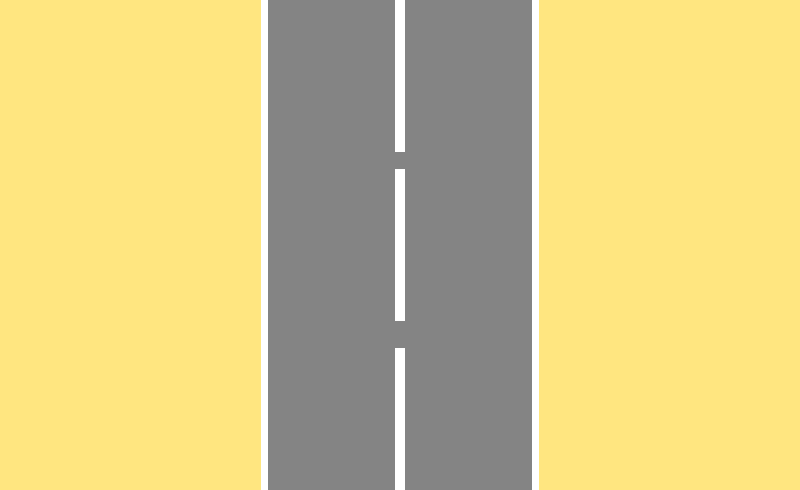
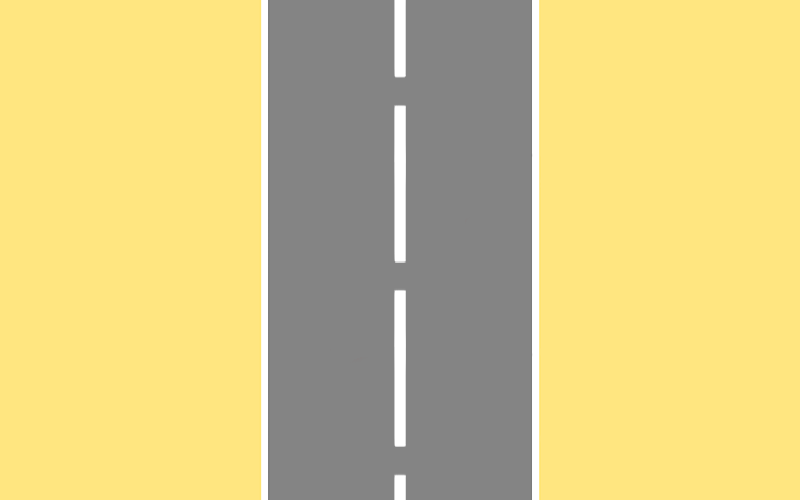
Need to do a lot of stuff now
Sprite, enemy movement, gamestates

diff --git a/VTP18/VTP18/VTP18/BackgroundManager.cs b/VTP18/VTP18/VTP18/BackgroundManager.cs
@@ -9,26 +9,18 @@ using Microsoft.Xna.Framework.Input;
 namespace VTP18
 {
     class BackgroundManager
-    {
         //variabel for player sprite
+    {
         Texture2D BackgroundImage;
-        //variabel for the timer
-        float timer = 0f;
-        //variabel for the interval
-        float interval = 200f;
-        //variabel for the current frame
-        int currentFrame = 0;
-        //variabel for the sprite height and width
-        int spriteWidth = 800;
-        int spriteHeight = 490;
-        //Variabel for the sprite speed
-        int spriteSpeed = 2;
-        //Variabel for the rectangle 
+
+       
+
+        //Variaberectanglel for the  
         Rectangle sourceRect;
         //Variabel for the rectangle position
-        Vector2 position;
-        //Variabel Velocity for the 
-        Vector2 velocity;
+        Vector2 position = new Vector2 (0, 0);
+
+       
 
         //Communicates so that the class vector Position returns and it values will return
         public Vector2 Position
@@ -37,12 +29,8 @@ namespace VTP18
             set { position = value; }
         }
 
-        //The same but with the velocity
-        public Vector2 Velocity
-        {
-            get { return velocity; }
-            set { velocity = value; }
-        }
+      
+
 
         //the same but with the Texture
         public Texture2D Texture
@@ -62,9 +50,6 @@ namespace VTP18
         public BackgroundManager (Texture2D texture, int currentFrame, int spriteWidth, int spriteHeight, Rectangle screenBounds)
         {
             this.BackgroundImage = texture;
-            this.currentFrame = currentFrame;
-            this.spriteWidth = spriteWidth;
-            this.spriteHeight = spriteHeight;
         }
 
        
@@ -72,40 +57,42 @@ namespace VTP18
         public void Update(GameTime gameTime)
         {
 
-       
-        
 
-            //The timer gets higher and higher with the time in milliseconds
-            timer += (float)gameTime.ElapsedGameTime.TotalMilliseconds;
+            position.Y += 10;
 
-            //If the timer is higher than the interval the currentframe goes + and the resets
-            if (timer > interval)
+            if (position.Y > 500)
             {
-                currentFrame++;
-                timer = 0f;
-
-                //Not mentioned is that if the currentframe is higher than 11 then it goes back to 8 again
-                if (currentFrame > 0)
-                {
-                    currentFrame = 4;
-                }
-
+                position.Y = -495;
             }
+
+          
+
+            //    //The timer gets higher and higher with the time in milliseconds
+            //    timer += (float)gameTime.ElapsedGameTime.TotalMilliseconds;
+
+            ////If the timer is higher than the interval the currentframe goes + and the resets
+            //if (timer > interval)
+            //{
+            //    currentFrame++;
+            //    timer = 0f;
+
+            //    //Not mentioned is that if the currentframe is higher than 11 then it goes back to 8 again
+            //    if (currentFrame > 0)
+            //    {
+            //        currentFrame = 4;
+            //    }
+
+            //}
         
 
 
 
     }
         
-           
-        
-
         public void draw(SpriteBatch spriteBatch)
         {
-
-
-
-
+            spriteBatch.Draw(BackgroundImage,position,Color.White );
+            
         }
 
     }

diff --git a/VTP18/VTP18/VTP18/Game1.cs b/VTP18/VTP18/VTP18/Game1.cs
@@ -24,8 +24,10 @@ namespace VTP18
         //Refering to Starfield class
         Starfield starField;
 
+
         BackgroundManager BackgroundImage;
 
+        BackgoundManager2 BackgroundImage2;
         //
         EnemyManager enemyManager;
 
@@ -83,12 +85,14 @@ namespace VTP18
             //_________________________________
             playerSprite.Position = new Vector2(400, 300);
 
-            BackgroundImage = new BackgroundManager(Content.Load<Texture2D>(@"Images/Mixed"), 1, 32, 46, screenBounds);
+            BackgroundImage = new BackgroundManager(Content.Load<Texture2D>(@"Images/HWB2"), 1, 32, 46, screenBounds);
+
+            BackgroundImage2 = new BackgoundManager2 (Content.Load<Texture2D>(@"Images/HWB"), 1, 32, 46, screenBounds);
 
             explosionManager = new ExplosionManager(mixedSprites, new Rectangle(0, 100, 50, 50), 3, new Rectangle(0, 450, 2, 2));
 
             collisionManager = new CollisionsManager(playerSprite, explosionManager, enemyManager);
-
+             
             Background = Content.Load<Texture2D>(@"Images/HWB");
             
         }
@@ -127,6 +131,8 @@ namespace VTP18
 
             BackgroundImage.Update(gameTime);
 
+            BackgroundImage2.Update(gameTime);
+
             collisionManager.CheckCollisions();
 
             enemyManager.Update(gameTime);
@@ -150,7 +156,9 @@ namespace VTP18
             GraphicsDevice.Clear(Color.Black);
 
             spriteBatch.Begin();
-            spriteBatch.Draw(BackgroundImage.Texture, BackgroundImage.Position, BackgroundImage.SourceRect, Color.OrangeRed);
+            BackgroundImage2.draw(spriteBatch);
+            BackgroundImage.draw(spriteBatch);
+
             explosionManager.Draw(spriteBatch);
             starField.Draw(spriteBatch);
             playerSprite.draw(spriteBatch);

diff --git a/VTP18/VTP18/VTP18/BackgoundManager2.cs b/VTP18/VTP18/VTP18/BackgoundManager2.cs
@@ -1,0 +1,65 @@
+using System;
+using System.Collections.Generic;
+using System.Linq;
+using System.Text;
+using Microsoft.Xna.Framework;
+using Microsoft.Xna.Framework.Graphics;
+using Microsoft.Xna.Framework.Input;
+
+
+
+namespace VTP18
+{
+    class BackgoundManager2
+    {
+        Texture2D BackgroundImage2;
+
+        //Variaberectanglel for the  
+        Rectangle sourceRect;
+
+        Vector2 position2 = new Vector2 (0, -490);
+
+
+        public Texture2D texture2
+        {
+            get { return BackgroundImage2; }
+            set { BackgroundImage2 = value; }
+        }
+
+        public Vector2 Position2
+        {
+            get { return position2; }
+            set { position2 = value; }
+        }
+
+        //The same but with the Rectangle 
+        public Rectangle SourceRect
+        {
+            get { return sourceRect; }
+            set { sourceRect = value; }
+        }
+
+        //When mentioning the class playermanager it will all of the things under it related
+        public BackgoundManager2 (Texture2D texture, int currentFrame, int spriteWidth, int spriteHeight, Rectangle screenBounds)
+        {
+            this.BackgroundImage2 = texture;
+        }
+
+
+        public void Update(GameTime gameTime)
+        {
+            position2.Y += 10;
+
+            if (position2.Y > 500)
+            {
+                position2.Y = -495;
+            }
+
+        }
+
+        public void draw(SpriteBatch spriteBatch)
+        {
+            spriteBatch.Draw(BackgroundImage2, position2, Color.White);
+        }
+    }
+}
